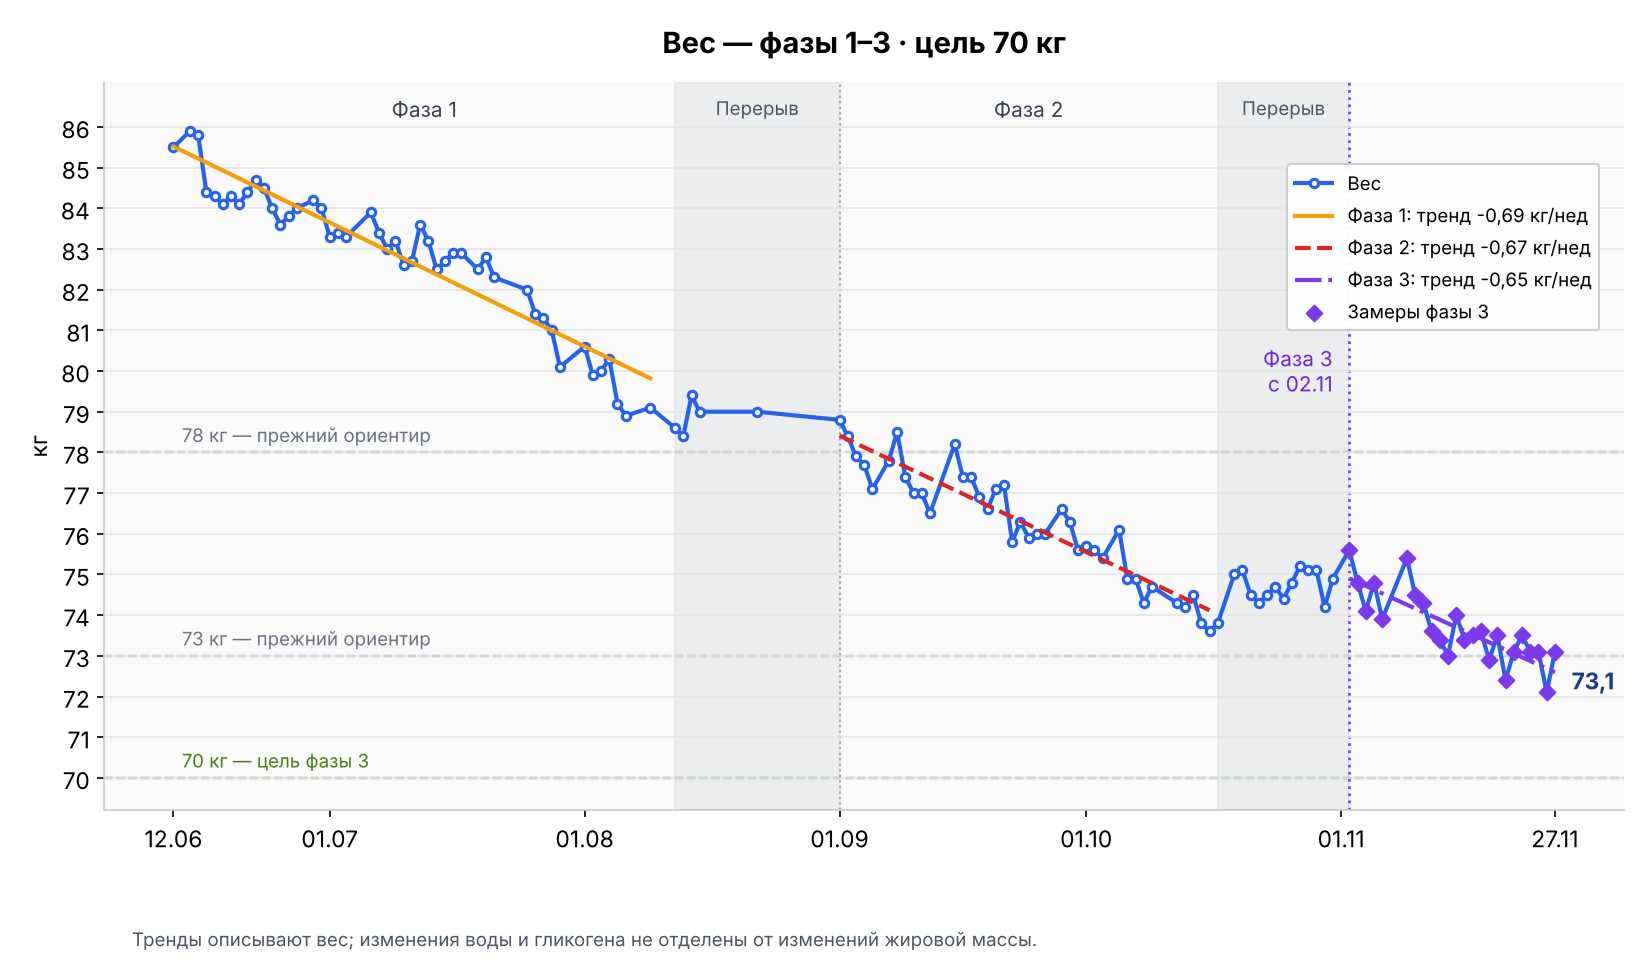
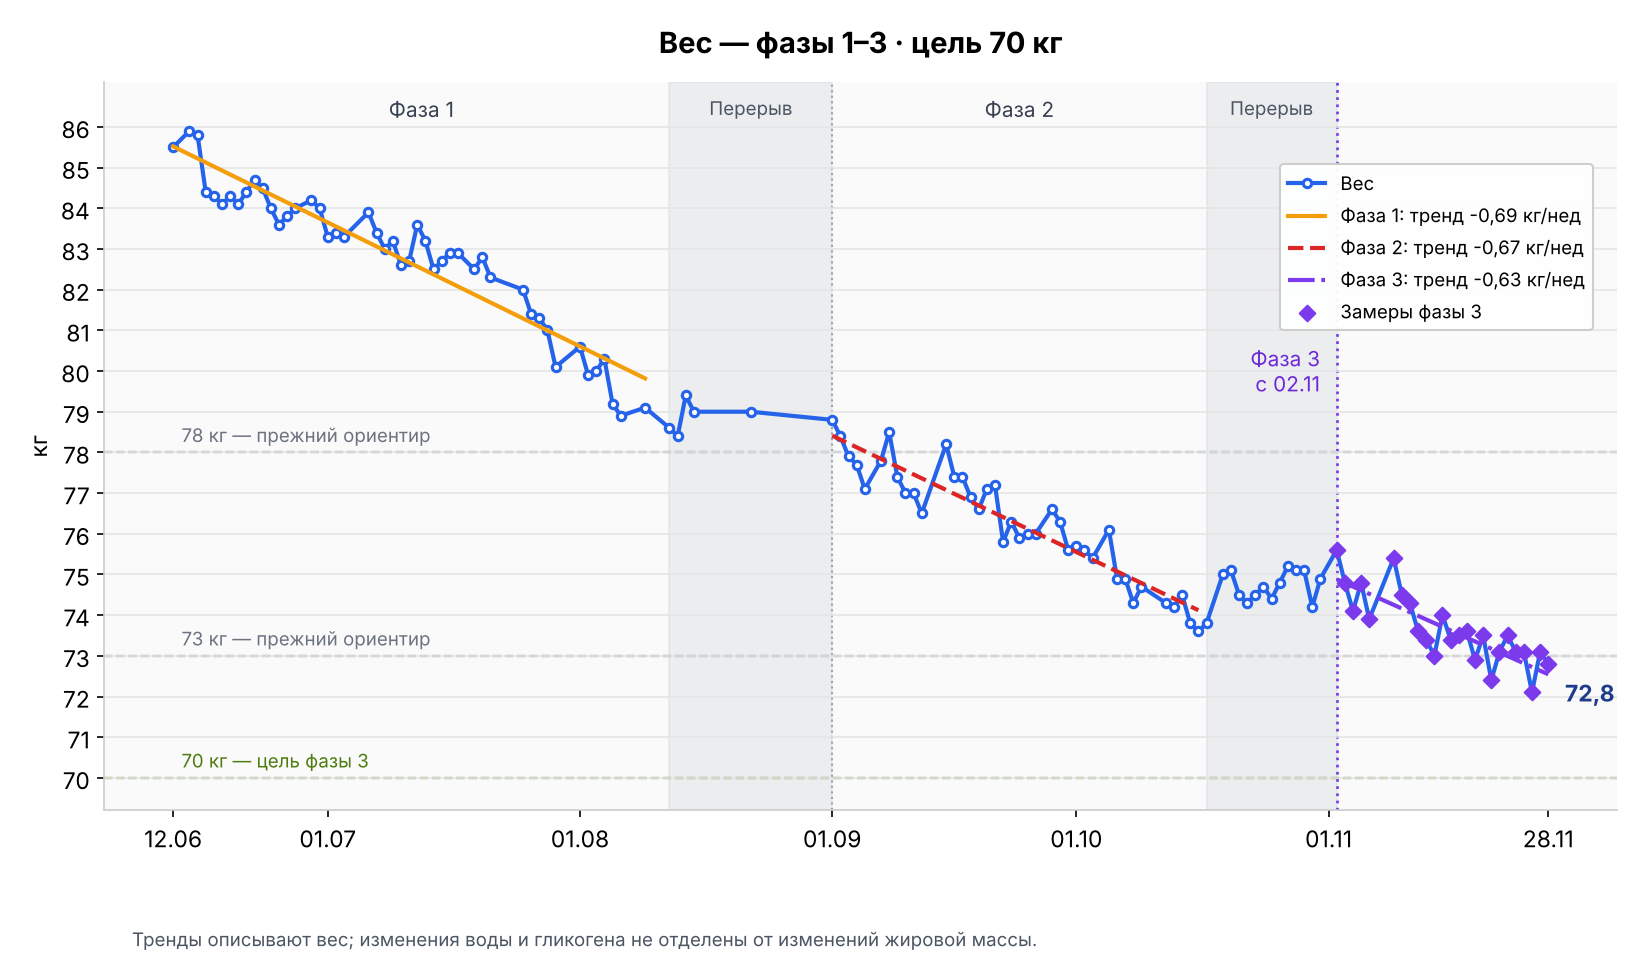
Вес 28.11: 72,8 кг на чужих весах; закрыт день 27.11
Замер помечен как сделанный на чужих весах — не сравним напрямую.
День 27.11 отмечен завершённым (~2202 ккал). Графики перестроены.

Claude-Session: https://claude.ai/code/session_01BcPogZpufV1jxrQv9Sbikk

diff --git a/health/журнал-еды.md b/health/журнал-еды.md
@@ -11,7 +11,7 @@
 
 | Дата | Кратко | Ккал | Белок |
 |---|---|---|---|
-| 27.11 (пт) | фаза 3, день 26 · цель 1900 ккал · утром 73,1 · день отдыха · [ВиТ] капучино 300 мл / завтрак мандарины 268 г + яблоки 300 г + молоко 1,5% 162 г + курица с прованскими травами 200 г + 2 варёных яйца + варёные овощи 360 г / обед курица су-вид 192 г + деревенские овощи 353 г / молоко 103 г + «Сникерс» мини / молоко 3,2% 54 г / греческий йогурт с малиной 190 г / ужин мандарины 111 г + яблоки 210 г + деревенские овощи 356 г / леденцы ~40 г + молоко 3,2% 150 г / молоко 2,5% 80 г (день идёт) | ~2202＋ | ~165＋ г |
+| 27.11 (пт) | фаза 3, день 26 · цель 1900 ккал · утром 73,1 · день отдыха · [ВиТ] капучино 300 мл / завтрак мандарины 268 г + яблоки 300 г + молоко 1,5% 162 г + курица с прованскими травами 200 г + 2 варёных яйца + варёные овощи 360 г / обед курица су-вид 192 г + деревенские овощи 353 г / молоко 103 г + «Сникерс» мини / молоко 3,2% 54 г / греческий йогурт с малиной 190 г / ужин мандарины 111 г + яблоки 210 г + деревенские овощи 356 г / леденцы ~40 г + молоко 3,2% 150 г / молоко 2,5% 80 г · день завершён, +302 к цели | ~2202 | ~165 г |
 | 26.11 (чт) | фаза 3, день 25 · цель 1900 ккал · утром 72,1 (минимум плана) · 🏋 зал, ноги + плечи, средняя неделя: жим ногами 130×12, жим гантелей 20×11 · [ВиТ] капучино 300 мл / завтрак куриное филе 200 г + брокколи и цветная капуста 323 г + 2 варёных яйца / молоко 1,5% 115 г / ужин курица с запечённым чесноком 318 г + лаваш армянский 178 г + овощной микс 362 г + 2 варёных яйца / молоко 1,5% 145 г + ещё 150 г · день завершён, +26 к цели | ~1926 | ~192 г |
 | 25.11 (ср) | фаза 3, день 24 · цель 1900 ккал · утром 73,1 · 🏋 зал, грудь + бицепс, средняя неделя: жим 60×12 ×2, усталость · завтрак варёные яйца 160 г + варёная грудка 240 г + дыня 210 г / сливки 10% 20 г / [столовая] огурцы и помидоры 415 г + дыня и грейпфрут 532 г / ещё сливки 10% 40 г / ужин куриное филе 200 г + лаваш армянский 218 г / варёное яйцо 59 г / молоко 1,5% 75 г · день завершён, ровно в цель | ~1897 | ~182 г |
 | 24.11 (вт) | фаза 3, день 23 · цель 1900 ккал · утром 73,1 · завтрак куриное филе 193 г + брокколи и цветная капуста 331 г + 4 варёных яйца / [ВиТ] капучино 300 мл / обед куриное филе 193 г + яблоки 396 г + апельсины 160 г + мандарины 164 г + молоко 1% 125 г + овощная смесь 367 г / молоко 1% 254 г / овощи 363 г / молоко 1% 145 г + ещё 158 г + ещё 41 г · день завершён, ~31 ккал до цели | ~1869 | ~182 г |
@@ -173,7 +173,7 @@
 
 ## 27 ноября (пт) — фаза 3, день 26 · утром 73,1
 
-День в процессе. **Цель — 1900 ккал** (обычный день; день отдыха от зала). Рабочий ориентир БЖУ: **Б 150 (140–160) / Ж 60 / У 190 г**.
+День завершён. **Цель — 1900 ккал** (обычный день; день отдыха от зала). Рабочий ориентир БЖУ: **Б 150 (140–160) / Ж 60 / У 190 г**.
 
 | Приём | Что | Ккал | Б | Ж | У |
 |---|---|---|---|---|---|
@@ -199,7 +199,7 @@
 | Поздно вечером | леденцы ~40 г (~385/100г, обычные с сахаром — прежняя оценка журнала; Б 0 / Ж 0 / У ~96) | ~154 | 0 | 0 | ~38,4 |
 | | молоко 3,2% 150 г (60/100г, Б 3 / Ж 3,2 / У 4,7 — КБЖУ молока от пользователя в этот день) | ~90 | 4,5 | 4,8 | 7,1 |
 | | молоко 2,5% 80 г (53,3/100г, Б 3 / Ж 2,5 / У 4,7 — данные пользователя от 22.11) | ~43 | 2,4 | 2,0 | 3,8 |
-| **Пока за день** | | **~2202** | **~164,9** | **~53,6** | **~263,2** |
+| **Итого** | | **~2202** | **~164,9** | **~53,6** | **~263,2** |
 
 Заметка: капучино [ВиТ] 300 мл по прежним данным: 113 ккал / Б 5,8 / Ж ~6 / У ~9 г. До цели 1900 ккал осталось 1787 ккал; до белка 140–160 г — 134,2–154,2 г; до Ж 60 — ~54 г; до У 190 — ~181 г. Завтрак: мандарины 268 г (38/0,8/0,2/7,5) — 101,840 ккал / Б 2,144 / Ж 0,536 / У 20,100 г; яблоки 300 г (47/0,4/0,4/9,8) — 141,000 / 1,200 / 1,200 / 29,400; молоко 1,5% 162 г (44,3/3/1,5/4,7) — 71,766 / 4,860 / 2,430 / 7,614; курица с прованскими травами 200 г (96,7/19,9/1,9/1) — 193,400 / 39,800 / 3,800 / 2,000; яйца варёные 123 г, 2 шт. (155/12,6/10,6/1,1) — 190,650 / 15,498 / 13,038 / 1,353; варёные овощи 360 г — из нескольких смесей на 30 ккал/100 г в журнале взята последняя по дате (24.11: 30/2,8/0,2/4,5) — 108,000 / 10,080 / 0,720 / 16,200. Завтрак всего 806,656 ккал / Б 73,582 / Ж 21,724 / У 76,667 г. За день ~919,7 ккал / Б ~79,4 / Ж ~27,7 / У ~85,7 г. До цели 1900 ккал осталось ~980,3 ккал; до белка 140–160 г — ~60,6–80,6 г; до Ж 60 — ~32,3 г; до У 190 — ~104,3 г. Обед: курица су-вид 192 г по КБЖУ пользователя 112/23,6/1,9 (углеводы не указаны — приняты 0) — 215,040 ккал / Б 45,312 / Ж 3,648 / У 0; деревенские овощи 353 г — пользователь назвал 40 ккал/100 г, БЖУ взяты у смеси на 40 ккал от 23.11 (2/0/8,5) — 141,200 / 7,060 / 0 / 30,005. Обед всего 356,240 ккал / Б 52,372 / Ж 3,648 / У 30,005 г. За день ~1275,9 ккал / Б ~131,8 / Ж ~31,4 / У ~115,7 г. До цели 1900 ккал осталось ~624,1 ккал; до белка 140–160 г — ~8,2–28,2 г; до Ж 60 — ~28,6 г; до У 190 — ~74,3 г. Добавлены молоко 103 г по КБЖУ пользователя 60/3/3,2/4,7 — 61,800 ккал / Б 3,090 / Ж 3,296 / У 4,841 г и «Сникерс» мини 1 шт. — 74 ккал по упаковке; БЖУ не переданы, оценка по типичному составу «Сникерса» (~488/8,6/23,7/59,5 на 100 г, ~15 г): Б ~1,3 / Ж ~3,6 / У ~9,0 г. За день ~1411,7 ккал / Б ~136,1 / Ж ~38,3 / У ~129,5 г. До цели 1900 ккал осталось ~488,3 ккал; до белка 140–160 г — ~3,9–23,9 г; до Ж 60 — ~21,7 г; до У 190 — ~60,5 г. Добавлено молоко 3,2% 54 г — по КБЖУ молока, переданным пользователем раньше в этот день (60/3/3,2/4,7, соответствует 3,2%) — 32,400 ккал / Б 1,620 / Ж 1,728 / У 2,538 г. За день ~1444,1 ккал / Б ~137,8 / Ж ~40,0 / У ~132,1 г. До цели 1900 ккал осталось ~455,9 ккал; до белка 140–160 г — ~2,2–22,2 г; до Ж 60 — ~20,0 г; до У 190 — ~57,9 г. Добавлен греческий йогурт с малиной 190 г по КБЖУ пользователя 99/6/3/12 — 188,100 ккал / Б 11,400 / Ж 5,700 / У 22,800 г. За день ~1632,2 ккал / Б ~149,2 / Ж ~45,7 / У ~154,9 г. До цели 1900 ккал осталось ~267,8 ккал; белок в диапазоне 140–160 г (до верхней границы ~10,8 г); до Ж 60 — ~14,3 г; до У 190 — ~35,1 г. Ужин: мандарины 111 г (38/0,8/0,2/7,5) — 42,180 ккал / Б 0,888 / Ж 0,222 / У 8,325 г; яблоки 210 г (47/0,4/0,4/9,8) — 98,700 / 0,840 / 0,840 / 20,580; деревенские овощи 356 г — те же, что на обед (40/2/0/8,5) — 142,400 / 7,120 / 0 / 30,260. Ужин всего 283,280 ккал / Б 8,848 / Ж 1,062 / У 59,165 г. Молоко 1,5% 100 г, начатое в сообщении, пользователь отменил — не записано. За день ~1915,5 ккал / Б ~158,0 / Ж ~46,8 / У ~214,0 г. Цель 1900 ккал превышена на ~15,5 ккал; белок в диапазоне 140–160 г; до Ж 60 — ~13,2 г; углеводы выше ориентира 190 г на ~24,0 г. Поздно вечером, по словам пользователя «немного читанул»: леденцы ~40 г по прежней оценке ~385 ккал/100 г (0/0/96) — ~154,0 ккал / У ~38,4 г; молоко 3,2% 150 г (60/3/3,2/4,7) — 90,000 / 4,500 / 4,800 / 7,050. Вместе ~244,0 ккал / Б 4,5 / Ж 4,8 / У ~45,5 г. За день ~2159,5 ккал / Б ~162,5 / Ж ~51,6 / У ~259,5 г. Цель 1900 ккал превышена на ~259,5 ккал; белок выше диапазона на ~2,5 г; до Ж 60 — ~8,4 г; углеводы выше ориентира на ~69,5 г. Неделя пн–пт 23–27.11: ~9797 ккал при плане 9500, +297. Добавлено молоко 2,5% 80 г (53,3/3/2,5/4,7) — 42,640 ккал / Б 2,400 / Ж 2,000 / У 3,760 г. За день ~2202,1 ккал / Б ~164,9 / Ж ~53,6 / У ~263,2 г. Цель 1900 ккал превышена на ~302,1 ккал. Неделя пн–пт: ~9840 ккал, +340 к плану.
 

diff --git a/health/журнал-веса.md b/health/журнал-веса.md
@@ -165,6 +165,7 @@
 | 25 ноября | 73,1 кг | ср; **фаза 3, день 24**. 0,0 кг к предыдущему замеру 24.11; накануне ~1869 ккал, вечером ~720 г молока (жидкость перед сном); −2,5 кг от старта фазы 3 (75,6 кг, 02.11); −12,4 кг от стартовой оценки 85,5 кг |
 | 26 ноября | 72,1 кг | чт; **фаза 3, день 25**. −1,0 кг к предыдущему замеру 25.11 — «вуш» после трёх дней на 73,1–73,5; **новый минимум плана** (прежний — 72,4 21.11); −3,5 кг от старта фазы 3 (75,6 кг, 02.11); −13,4 кг от стартовой оценки 85,5 кг. Накануне ~1897 ккал, тренировка груди и бицепса, лаваш |
 | 27 ноября | 73,1 кг | пт; **фаза 3, день 26**. +1,0 кг к предыдущему замеру 26.11 — вода: накануне тяжёлая тренировка ног и плеч (28 подходов, рекорды), вечером лаваш ~178 г и ~135 г углеводов на ужин (гликоген с водой), ~300 г молока поздно вечером; калории ~1926 — в цель; −2,5 кг от старта фазы 3 (75,6 кг, 02.11); −12,4 кг от стартовой оценки 85,5 кг |
+| 28 ноября | 72,8 кг ⚠ | сб; **фаза 3, день 27**. **Чужие весы** — с обычными напрямую не сравнимо, погрешность между весами может быть ±0,5 кг. −0,3 кг к 27.11 (на своих весах); накануне ~2202 ккал (леденцы и ~450 г молока вечером); −2,8 кг от старта фазы 3 (75,6 кг, 02.11); −12,7 кг от стартовой оценки 85,5 кг |
 | 7 ноября | — | сб; **фаза 3, день 6**. Пользователь забыл взвеситься; замер пропущен |
 
 ### График
